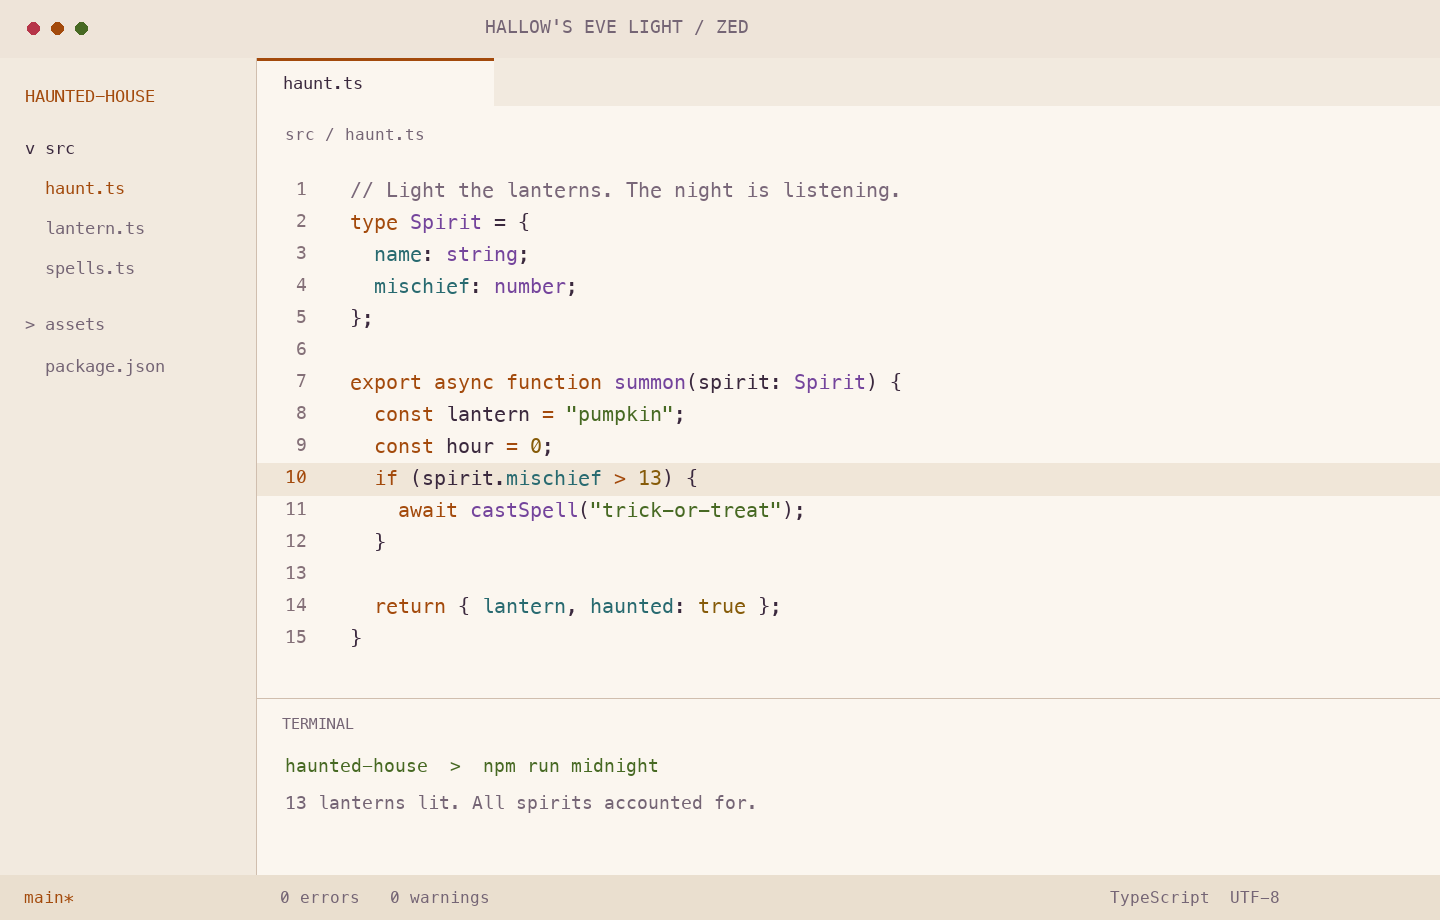
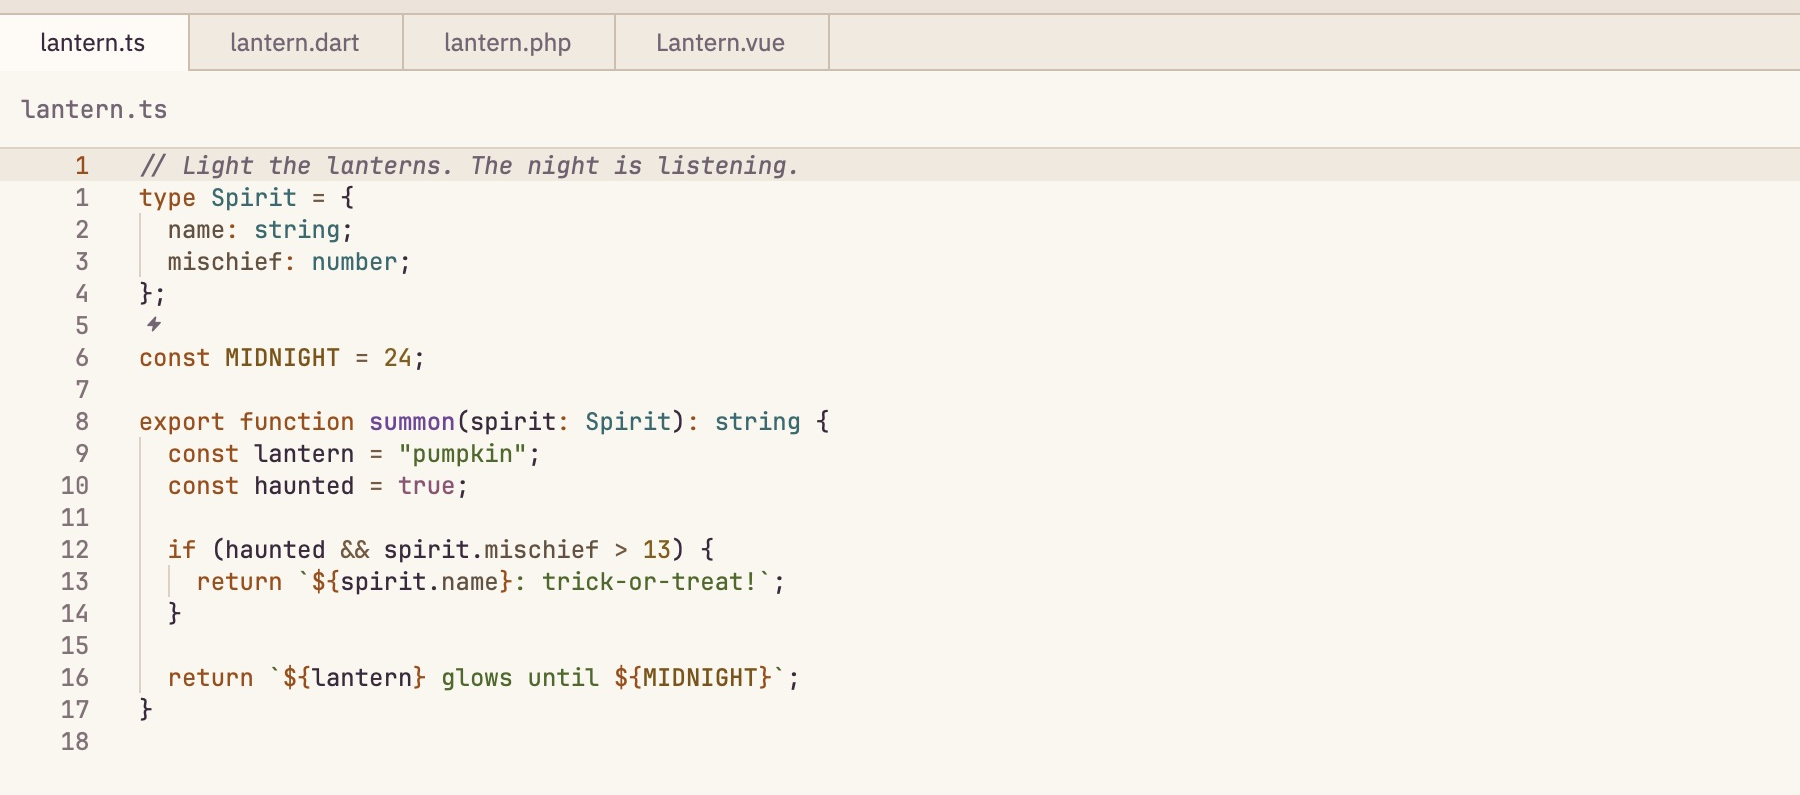
Refine syntax roles and navigation in both appearances

diff --git a/README.md b/README.md
@@ -5,11 +5,20 @@ A Halloween-inspired theme family for [Zed](https://zed.dev), with pumpkin-orang
 - **Hallow's Eve** pairs warm charcoal surfaces with soft, luminous syntax colors.
 - **Hallow's Eve Light** pairs warm ivory surfaces with deeper autumnal syntax colors.
 
-![Hallow's Eve illustrative preview](assets/preview.png)
+![Hallow's Eve in Zed](assets/preview.png)
 
-![Hallow's Eve Light illustrative preview](assets/preview-light.png)
+![Hallow's Eve Light in Zed](assets/preview-light.png)
 
-These previews illustrate the theme palettes; they are not editor screenshots.
+Actual Zed screenshots, cropped to show the editor and tabs.
+
+## What's new in 0.2.0
+
+- Violet functions, teal types, bone-toned properties, candle-gold constants, and mauve booleans.
+- More distinct active tabs, violet selections, amber search matches, and green matching brackets.
+- Refined Git change and diagnostic backgrounds in both appearances.
+- Coverage for built-in constants, enum variants, preprocessor directives, and Markdown list markers and literal text.
+
+Themes color the syntax captures provided by each language. Install Zed's corresponding language extension when needed; a theme alone does not add PHP, Vue, or Dart language support.
 
 ## Install
 
@@ -45,9 +54,11 @@ To follow your system appearance, merge this setting into Zed's `settings.json`:
 | Witchy violet | `#C6A0F6` | `#74449C` |
 | Ghostly green | `#B6D982` | `#476923` |
 | Spectral teal | `#8DCED3` | `#286A70` |
-| Comments | `#A194AA` | `#796779` |
+| Comments | `#A194AA` | `#716071` |
 
-Includes editor, panels, tabs, diagnostics, collaboration colors, and terminal ANSI colors. Main text, comments, and primary syntax colors exceed 4.5:1 contrast against the editor background.
+Includes editor, panels, tabs, diagnostics, collaboration colors, and terminal ANSI colors. Checked syntax roles and comments exceed 4.5:1 contrast against the editor background, active line, primary selection, and search-match background in both appearances. These checks cover each background separately; overlapping highlights may differ.
+
+Validated against Zed's v0.2.0 theme JSON schema. Visually checked TypeScript in both appearances and Dart in dark mode in Zed.
 
 ## License
 
